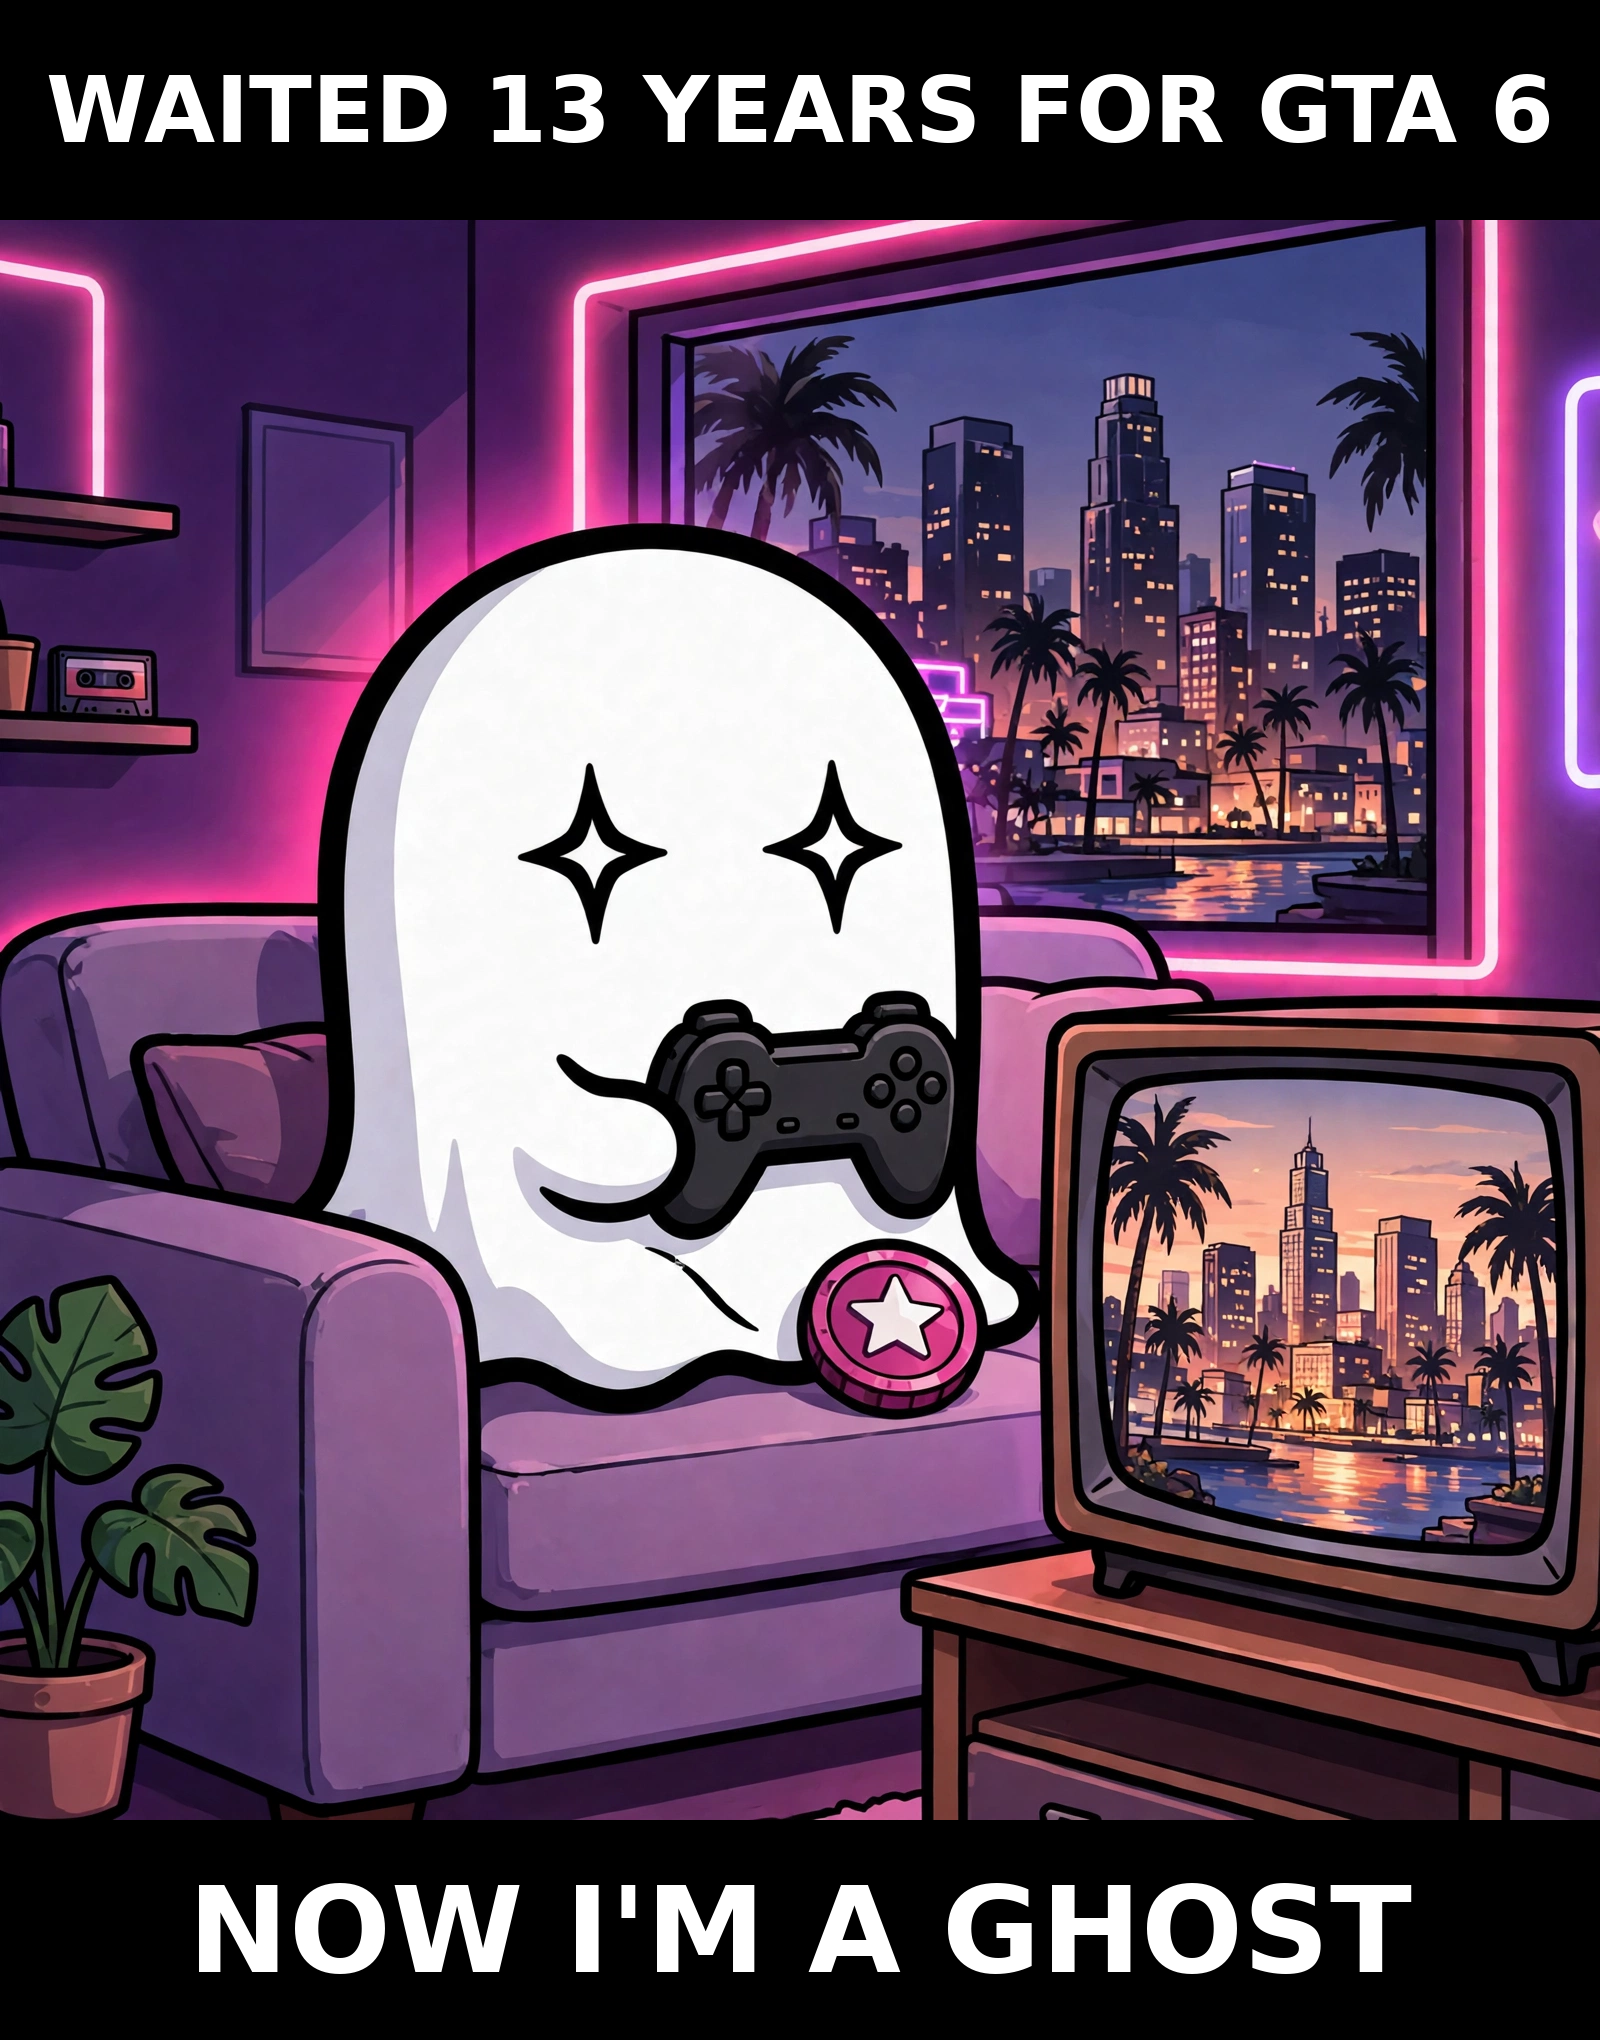
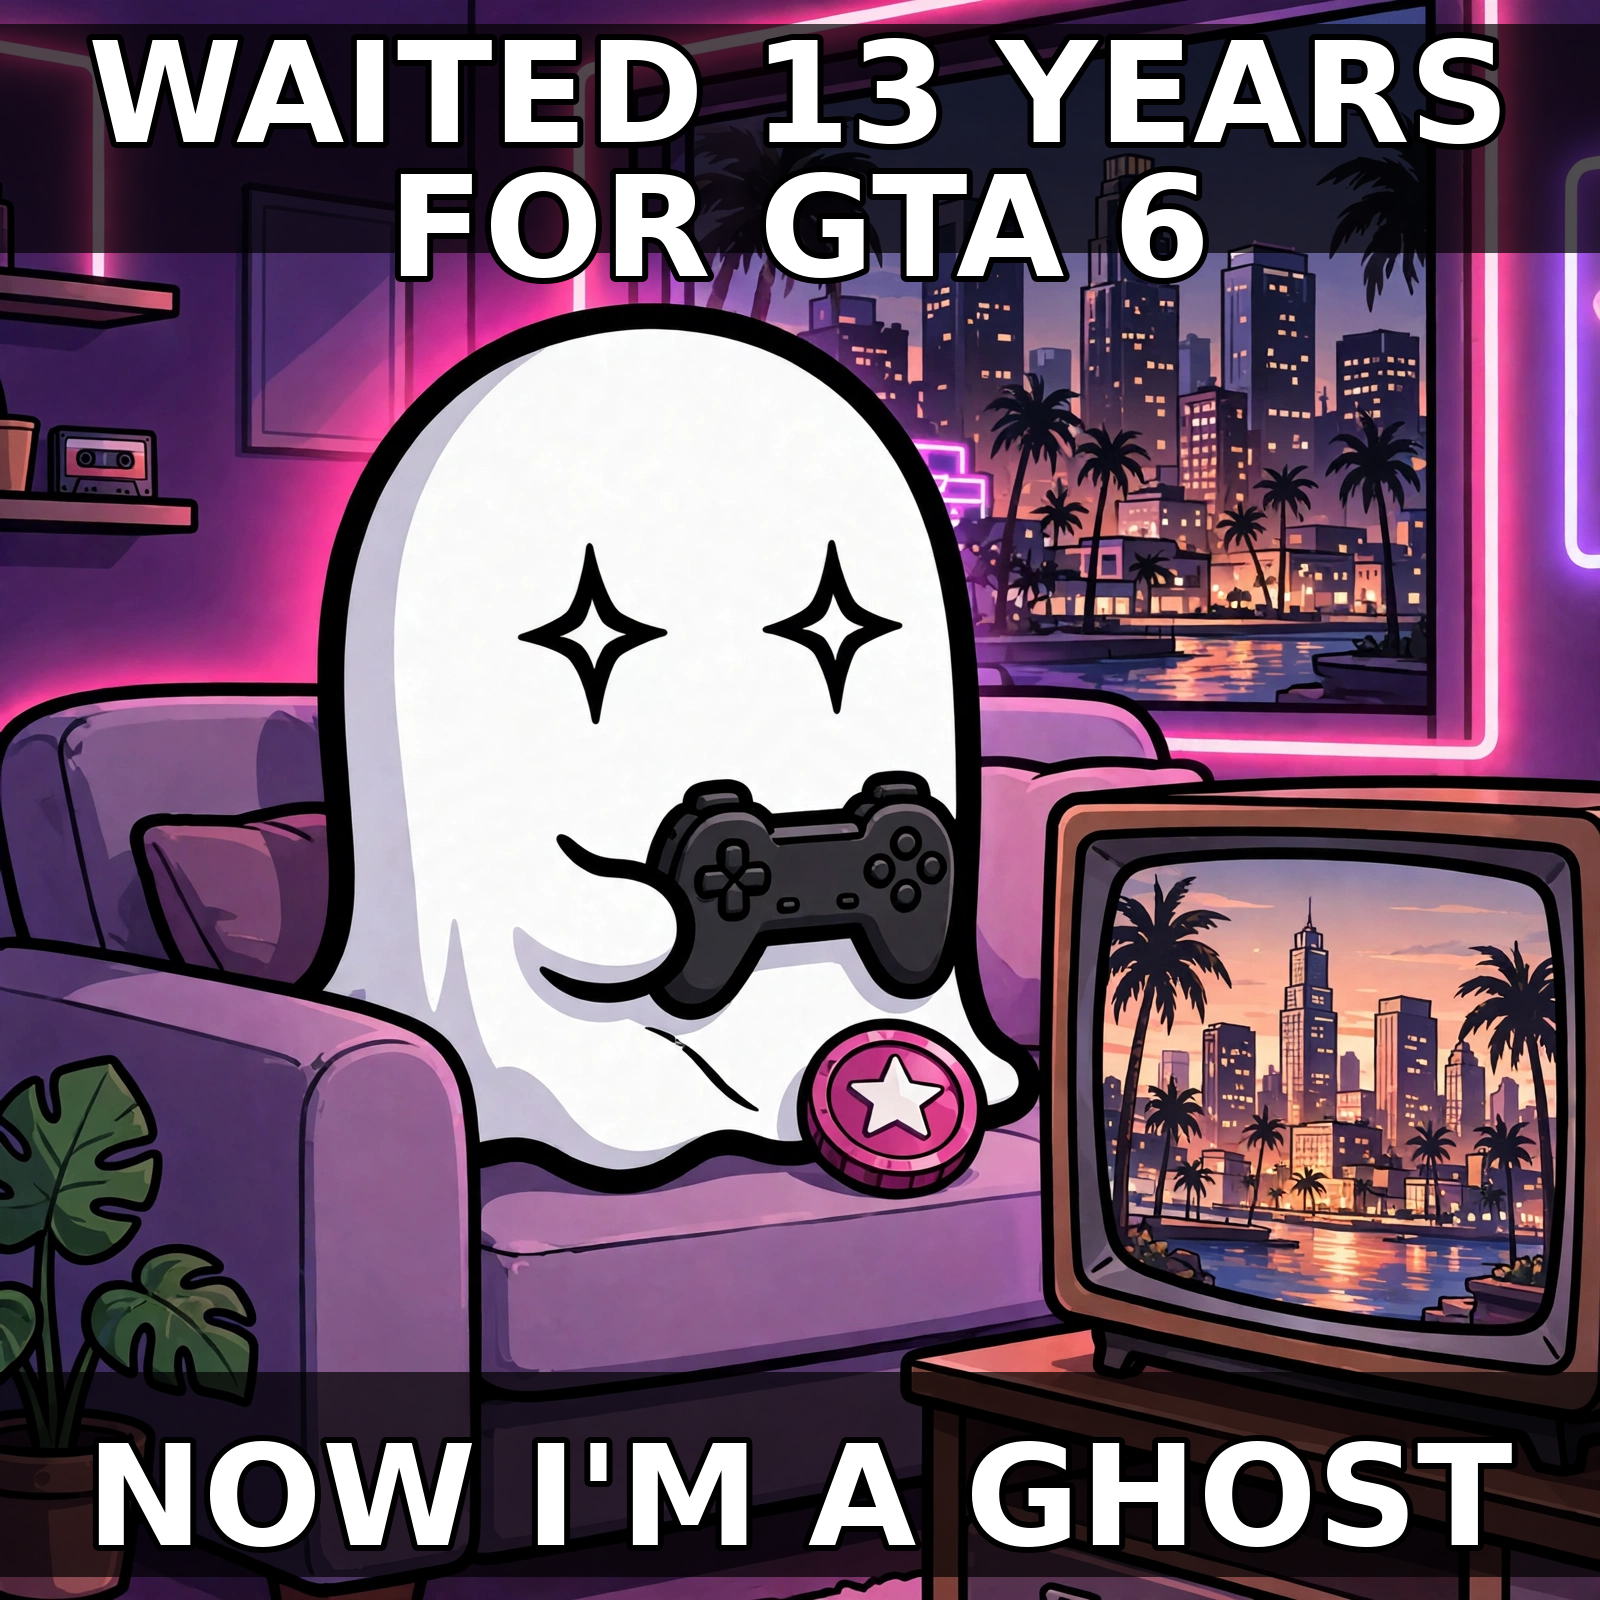
gta6-meme-x-01: square meme + stricter POST url validation

diff --git a/main.ts b/main.ts
@@ -13,7 +13,30 @@ import { join } from 'node:path';
 const BOT_DIR = process.env.MAKEFUN_BOT_DIR ?? '/bot';
 const OUTPUT_DIR = process.env.MAKEFUN_OUTPUT_DIR ?? '/output';
 
-const POST_URL = /^https?:\/\/(www\.|mobile\.)?(x|twitter)\.com\/[^/]+\/status\/\d+$/;
+const ALLOWED_HOSTS = new Set([
+  'x.com',
+  'www.x.com',
+  'twitter.com',
+  'www.twitter.com',
+  'mobile.twitter.com',
+]);
+
+// /<handle>/status/<digits>, or the /i/web/status/<digits> share form.
+const STATUS_PATH = /^\/[^/]+\/status\/\d+$/;
+const WEB_STATUS_PATH = /^\/i\/web\/status\/\d+$/;
+
+function isPostUrl(value: string): boolean {
+  let parsed: URL;
+  try {
+    parsed = new URL(value);
+  } catch {
+    return false;
+  }
+  if (parsed.protocol !== 'https:' && parsed.protocol !== 'http:') return false;
+  if (!ALLOWED_HOSTS.has(parsed.hostname.toLowerCase())) return false;
+  if (parsed.search !== '' || parsed.hash !== '') return false;
+  return STATUS_PATH.test(parsed.pathname) || WEB_STATUS_PATH.test(parsed.pathname);
+}
 
 function fail(message: string): never {
   console.error(`gta6-meme-x-01: ${message}`);
@@ -40,8 +63,8 @@ if (typeof post !== 'object' || post === null || Array.isArray(post)) {
   fail('POST.json must be a JSON object with a url string');
 }
 const url = (post as { url?: unknown }).url;
-if (typeof url !== 'string' || !POST_URL.test(url)) {
-  fail('POST.json url must be an X post address like https://x.com/<handle>/status/<id>');
+if (typeof url !== 'string' || !isPostUrl(url)) {
+  fail('POST.json url must be an X post address: host x.com / www.x.com / twitter.com / www.twitter.com / mobile.twitter.com, path /<handle>/status/<id> (or /i/web/status/<id>)');
 }
 
 writeFileSync(join(OUTPUT_DIR, 'POST.json'), JSON.stringify({ url }) + '\n', 'utf8');
